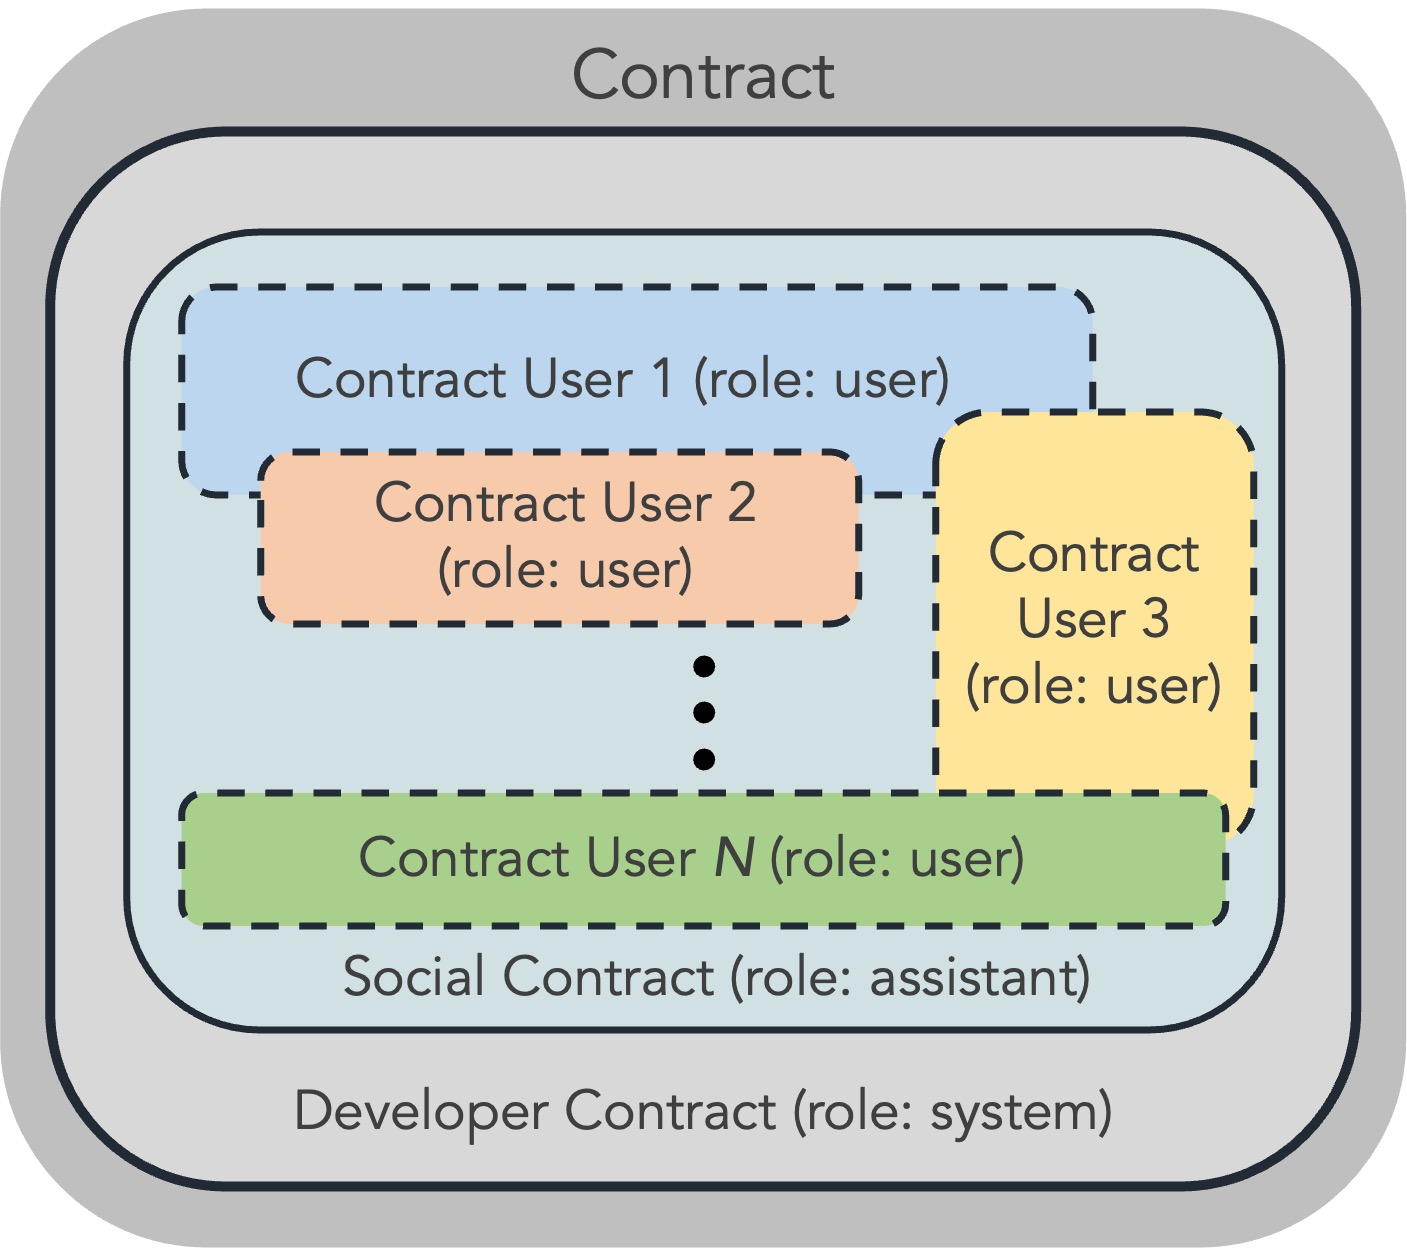
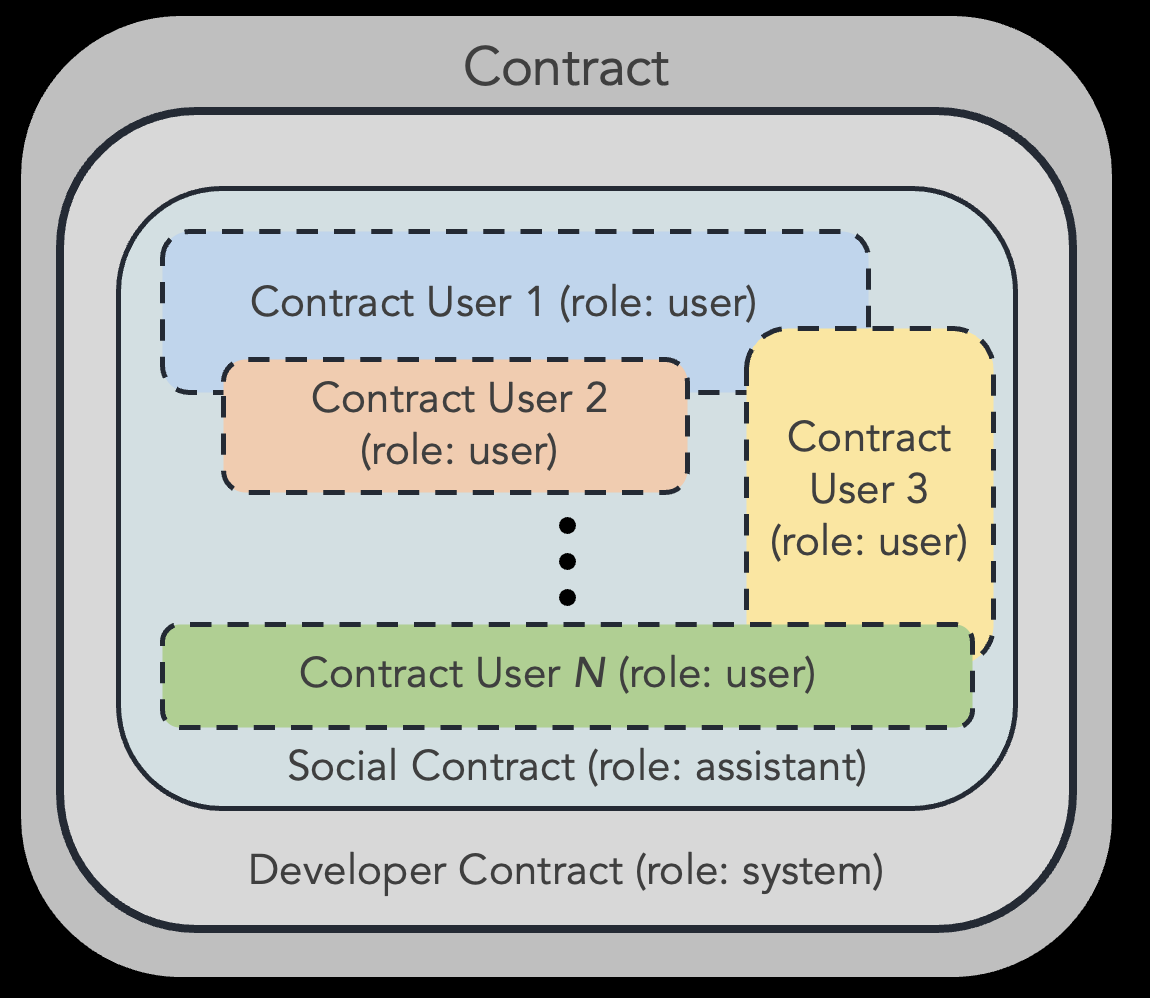
updates

diff --git a/README.md b/README.md
@@ -21,6 +21,9 @@ Large language models (LLMs) are an exciting technologoy. However, achieving ver
 ###### System
 
 ###### Assistant
+<p align="left">
+    <img src="assets/assistant.jpg" alt="contract" width="20%">
+</p>
 
 ###### User(s)
 
